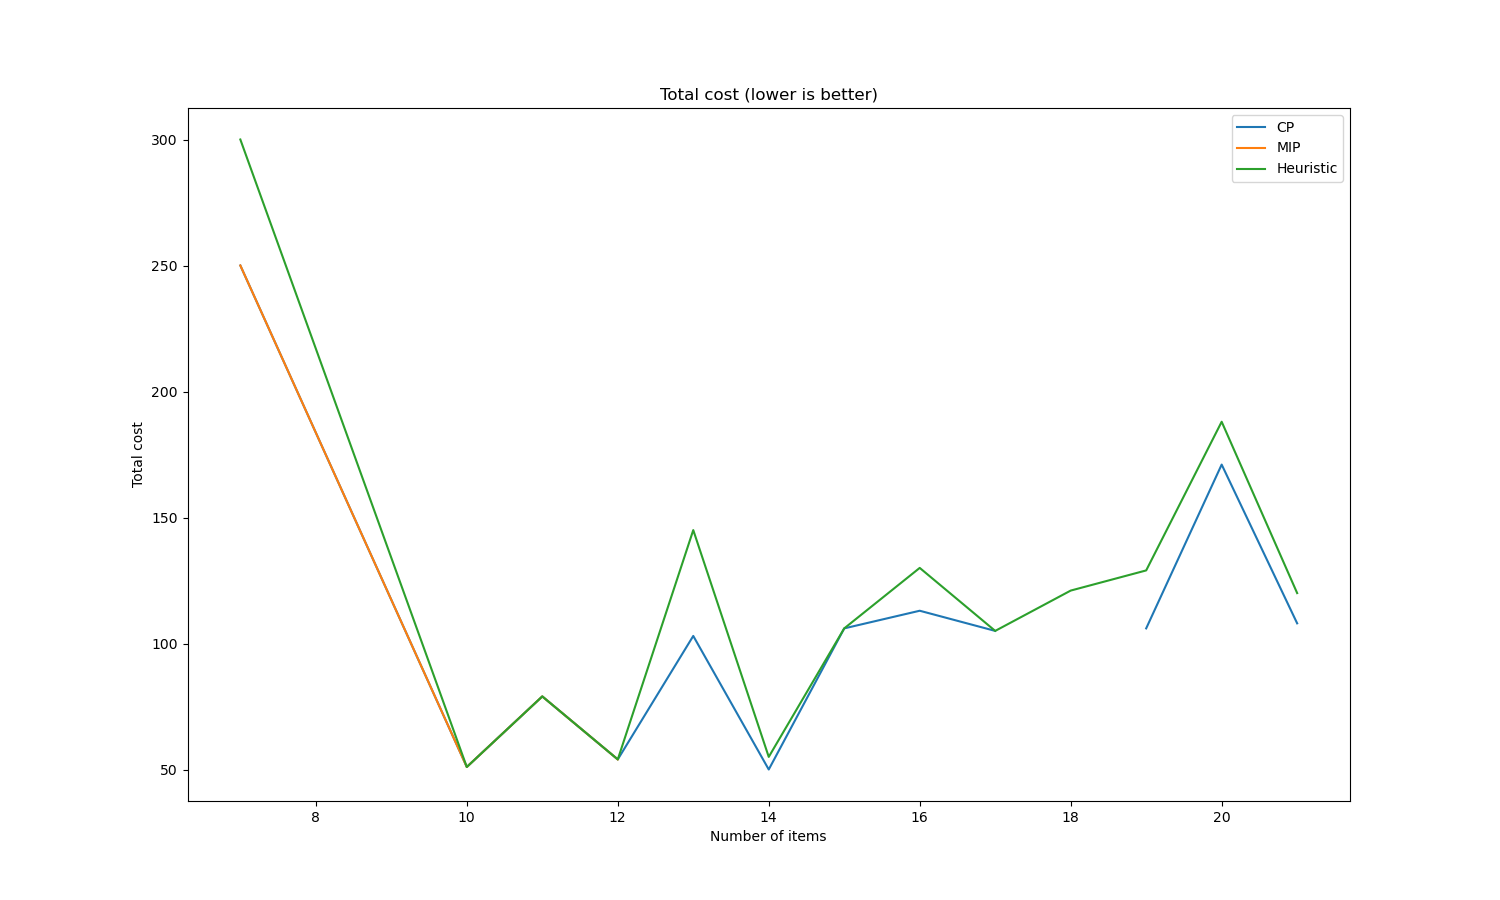
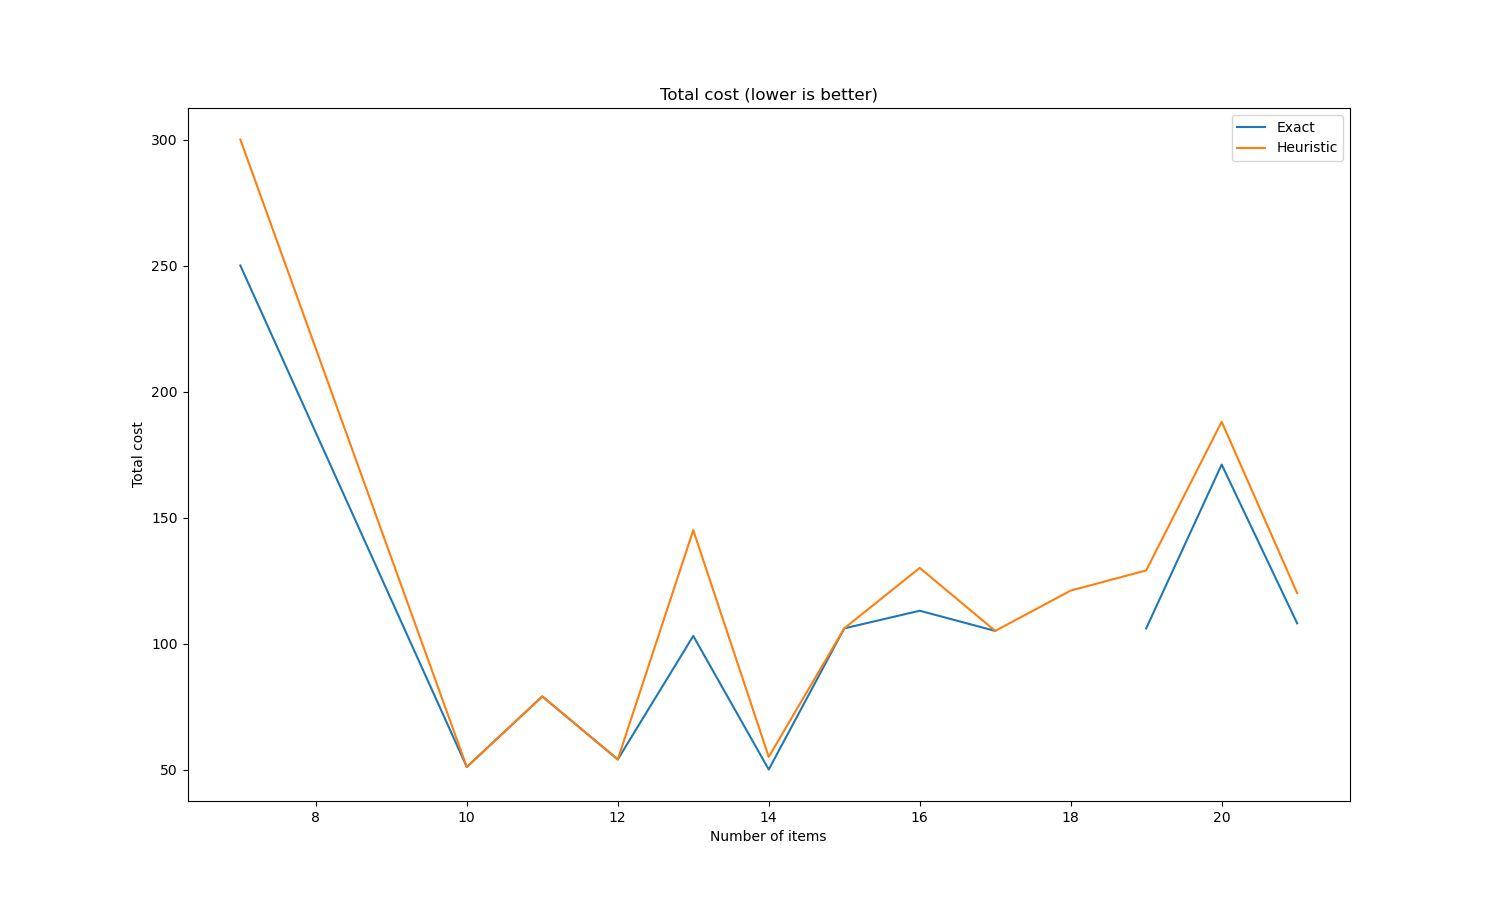
update

diff --git a/analyze/code/compare_exact.py b/analyze/code/compare_exact.py
@@ -1,6 +1,6 @@
 import matplotlib.pyplot as plt
 
-resuslt_path = ["results/results_CP1/results_CP1_300_1.csv", "results/results_MIP/results_MIP_300_1.csv", "results/results_HEU/results_HEU_1.csv"]
+resuslt_path = ["results/results_CP2/results_CP2_300_1.csv", "results/results_MIP/results_MIP_300_1.csv", "results/results_HEU/results_HEU_1.csv"]
 
 success_tests = []
 fail_tests = []
@@ -40,8 +40,7 @@ for path in resuslt_path:
 
 # compare only exact
 fig, ax = plt.subplots(figsize=(15, 9))
-ax.plot(n_packs[0][:13], cost[0][:13], "-", label = "CP")
-ax.plot(n_packs[1][:13], cost[1][:13], "-", label = "MIP")
+ax.plot(n_packs[0][:13], cost[0][:13], "-", label = "Exact")
 ax.plot(n_packs[2][:13], cost[2][:13], "-", label = "Heuristic")
 
 ax.set_ylabel('Total cost')
@@ -49,4 +48,17 @@ ax.set_xlabel('Number of items')
 plt.title('Total cost (lower is better)')
 plt.legend()
 plt.savefig('analyze/compare_only_exact.png')
+# plt.show()
+
+
+# compare only exact
+fig, ax = plt.subplots(figsize=(15, 9))
+ax.plot(n_packs[0][:13], run_time[0][:13], "-", label = "CP")
+ax.plot(n_packs[1][:13], run_time[1][:13], "-", label = "MIP")
+
+ax.set_ylabel('Run time')
+ax.set_xlabel('Number of items')
+plt.title('Run time (lower is better)')
+plt.legend()
+plt.savefig('analyze/compare_time_only_exact.png')
 # plt.show()
